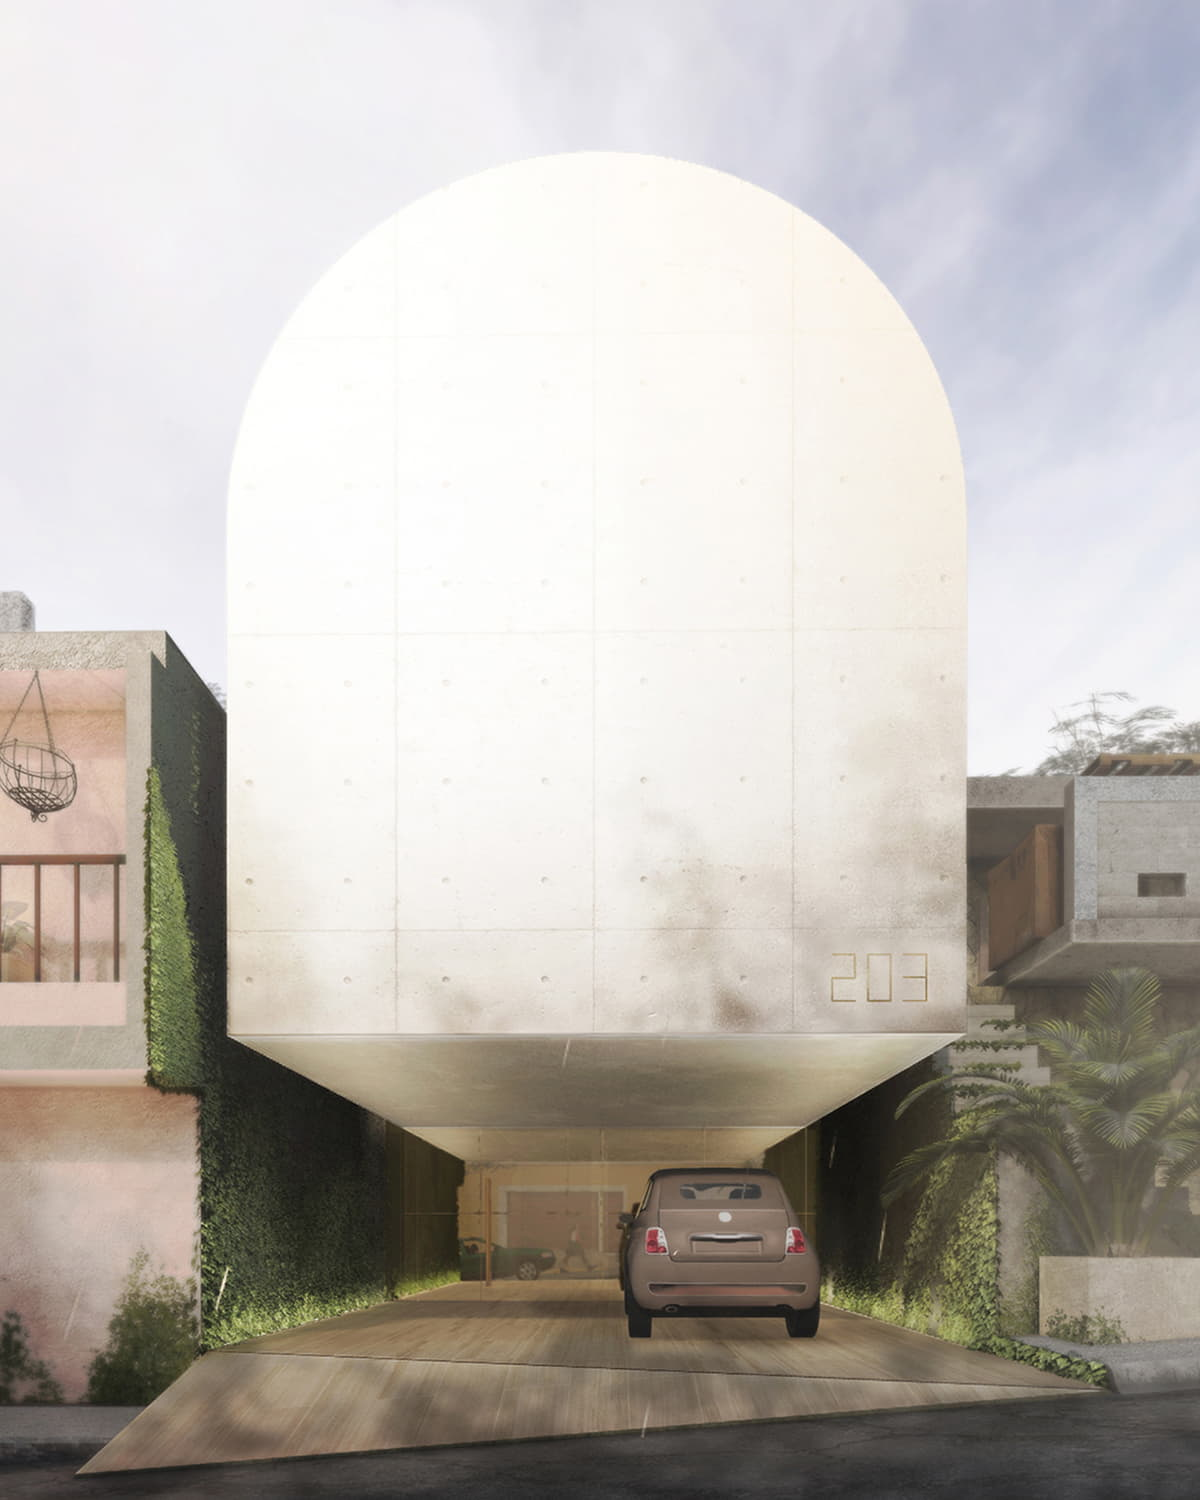
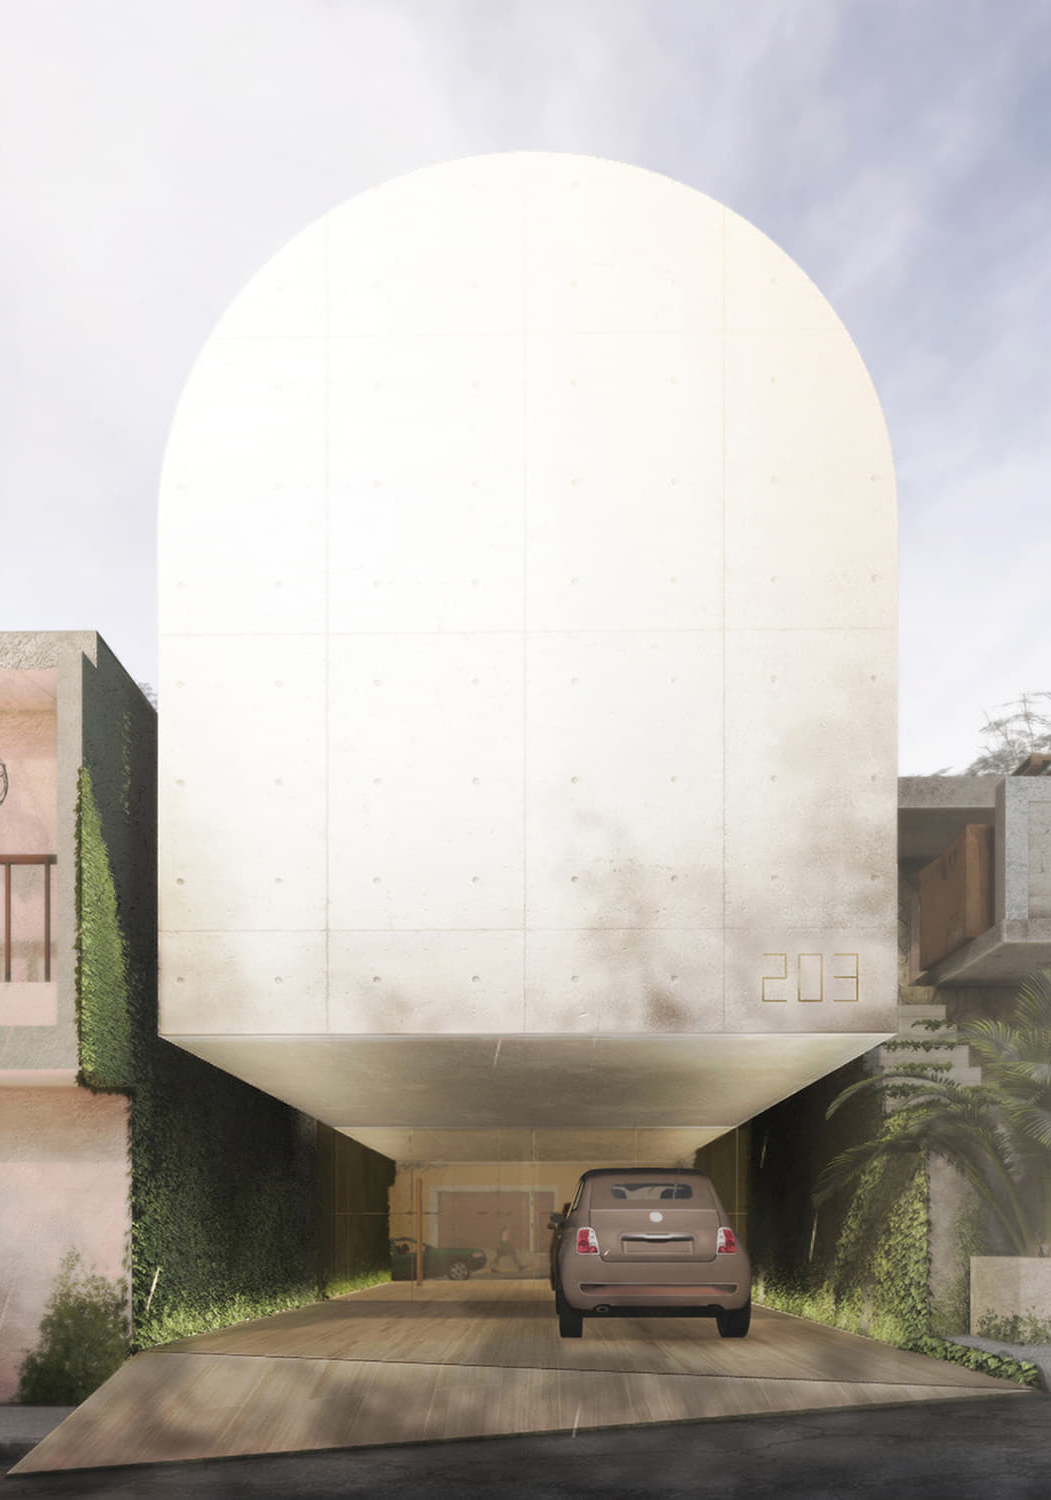
1
1

diff --git a/ojos.html b/ojos.html
@@ -317,23 +317,24 @@ data-type="page-section">
 
 <script  src="./scott_files/tabselector.js"></script>
 
-<!-- Horizontal 1 H1 animate image "combination-animation-none" to "combination-animation-tilt-up" fade-in, slide-up, horizontal-clip, vertical-clip, tilt-up, tilt-down, collide, reveal, focus-in, etc-->
-<DIV class="sqs-block image-block sqs-block-image" id="block-yui_3_17_2_1_1613628857157_13995" 
+<!--Horizontal 2 H2 -->
+<DIV class="sqs-block image-block sqs-block-image" id="block-yui_3_17_2_1_1613977931013_114954" 
 data-block-type="5">
 <DIV class="sqs-block-content">
 <DIV class="&#10;          image-block-outer-wrapper&#10;          layout-caption-hidden&#10;          design-layout-inline&#10;          combination-animation-none&#10;          individual-animation-site-default&#10;          individual-text-animation-site-default&#10;        " 
 data-test="image-block-inline-outer-wrapper"><FIGURE class="&#10;              sqs-block-image-figure&#10;              intrinsic&#10;            " 
 style="max-width: 2500px;">
-<DIV class="image-block-wrapper" data-animation-role="image">
+<DIV class="image-block-wrapper" data-animation-role="image" 
+data-animation-override="" style="">
 <DIV class="sqs-image-shape-container-element&#10;              &#10;          &#10;        &#10;              has-aspect-ratio&#10;            " 
-style="overflow: hidden; padding-bottom: 56.23%; position: relative;"><NOSCRIPT>&lt;img 
-src="./imgs/ojos/1-casa-ojos-residencial-arquidromo-arquitectos-monterrey-mexico.jpg" 
+style="overflow: hidden; padding-bottom: 66.68%; position: relative;"><NOSCRIPT>&lt;img 
+src="./imgs/montana/1-casa-ojos-residencial-arquidromo-arquitectos-monterrey-mexico.jpg" 
 alt="1-casa-ojos-residencial-arquidromo-arquitectos-monterrey-mexico.jpg" /&gt;</NOSCRIPT><IMG class="thumb-image" 
-alt="1-casa-ojos-residencial-arquidromo-arquitectos-monterrey-mexico.jpg" data-src="./imgs/ojos/1-casa-ojos-residencial-arquidromo-arquitectos-monterrey-mexico.jpg" 
-data-load="false" data-image-focal-point="0.5,0.5" data-image-dimensions="1920x1080" 
-data-image="./imgs/ojos/1-casa-ojos-residencial-arquidromo-arquitectos-monterrey-mexico.jpg" 
-data-type="image" data-image-id="60335a6ac95f6a31e4f3ce90">  
-<div class="offload titleformat"> Casa Ojos┃MTY, MX┃2019-┃220m²</div>        
+alt="1-casa-ojos-residencial-arquidromo-arquitectos-monterrey-mexico.jpg" data-src="./imgs/montana/1-casa-ojos-residencial-arquidromo-arquitectos-monterrey-mexico.jpg" 
+data-load="false" data-image-focal-point="0.5,0.5" data-image-dimensions="1200x800" 
+data-image="./imgs/montana/1-casa-ojos-residencial-arquidromo-arquitectos-monterrey-mexico.jpg" 
+data-type="image" data-image-id="6033601b5a30be43ec07dad4">  
+<div class="offload titleformat"> Casa Ojos┃MTY, MX┃2019-┃220m²</div>      
 </DIV></DIV></FIGURE></DIV></DIV></DIV>
 
 
